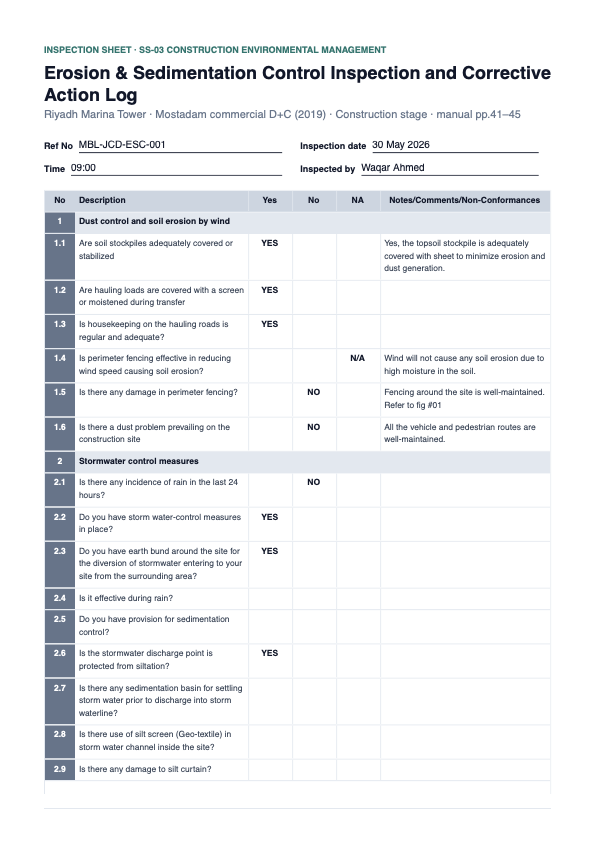
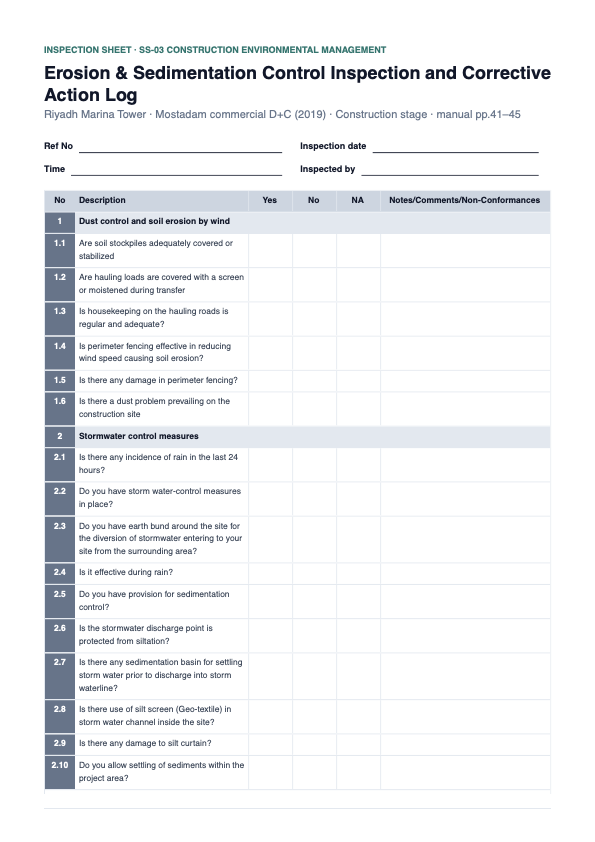
docs(feedback): ESC evidence sheet with the header left blank
The previous evidence PDF carried Ref No, date, time and inspector values
typed in from the client's sample while testing, which read as if they
were built in. Regenerated through the real forms with the header blank;
a new inspection's header is empty in the database and on the page.

diff --git a/docs/feedback/2026-10-sprint-2/03-checklist-templates-in-db/task.md b/docs/feedback/2026-10-sprint-2/03-checklist-templates-in-db/task.md
@@ -180,7 +180,12 @@ per item; the review page labels the No-compliant ones.
 concrete washout item, quoting "Concrete washout is not permitted on site".
 The prompt now treats "not permitted on site" as N/A; the re-run gave N/A.
 
-[ESC reviewed inspection, downloaded from the app](./evidence/after-esc-reviewed-inspection.pdf)
+[ESC sheet, downloaded from the app](./evidence/after-esc-reviewed-inspection.pdf):
+a new inspection saved with the header left blank, so Ref No, date, time and
+inspected by print as empty lines to fill by hand. None of these is ever
+pre-filled: a new inspection starts with all four empty. (The first version of
+this evidence carried values typed in from the client's sample during testing;
+Hadi asked for it to show them empty, 2026-10-08.)
 
 ![ESC page 1](./evidence/after-esc-reviewed-inspection-p1.png)
 
@@ -189,6 +194,7 @@ The prompt now treats "not permitted on site" as N/A; the re-run gave N/A.
 | Inspections link on SS-03 | present |
 | AI draft on SS-03 with a test CEMP (live model) | 13 Yes, 2 N/A, 13 blank; **0 Yes on a No-compliant or observation item** |
 | Review saved through the real form (Ref No, date, time, inspector, answers) | 303 `?saved=1`, all stored |
+| A new inspection's header | empty in the database and on the review page; prints as blank lines |
 | PDF | NA column, notes column, two sign-off blocks, no statement, header two per line |
 | Fresh empty database, all 12 migrations | both forms seeded (IAQ 6/32, ESC 4/28) |
 | Tests with database / tsc / lint / build | 202 passing / clean / 0 errors / succeeds |
